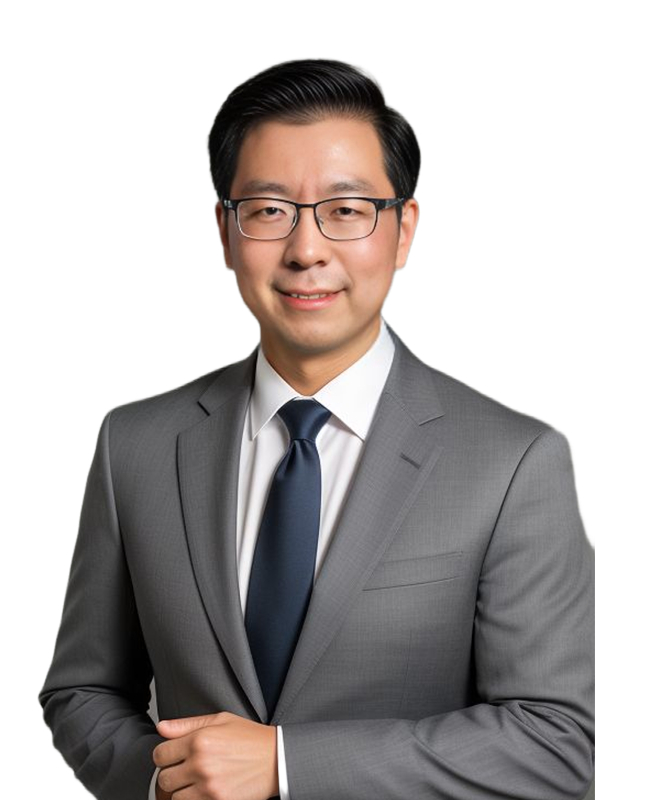
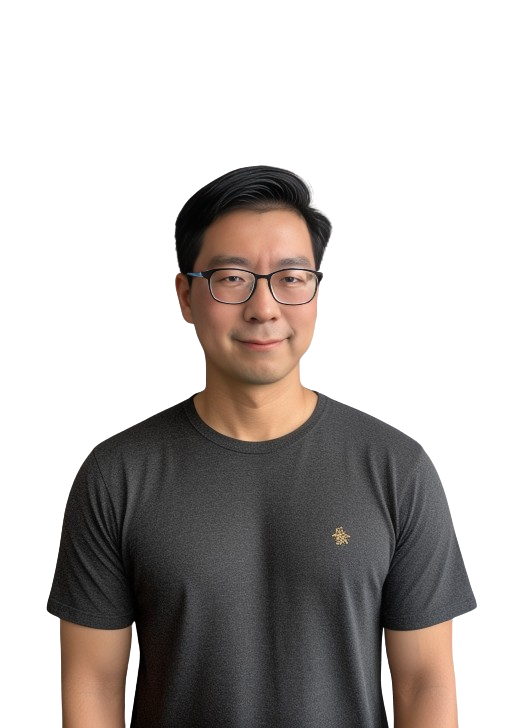
new photo

diff --git a/src/components/Hero.jsx b/src/components/Hero.jsx
@@ -18,6 +18,20 @@ const Hero = () => {
     >
       <div className="container lg:grid lg:grid-cols-2
       items-center lg:gap-10">
+        <div className="hidden lg:block">
+          <figure className="w-full max-w-[4480px] ml-auto
+          bg-gradient-to-t from-sky-400 via-25% via-sky-40 to-65% 
+          rounded-[60px] overflow-hidden">
+            <img 
+            src="/images/hero-banner.png"
+            width={656}
+            height={800} 
+            alt="Portrait" 
+            className="w-full" 
+            />
+          </figure>
+
+        </div>
         <div>
 
           <div className="flex items-center gap-3">
@@ -62,20 +76,7 @@ const Hero = () => {
 
 
         </div>
-        <div className="hidden lg:block">
-          <figure className="w-full max-w-[4480px] ml-auto
-          bg-gradient-to-t from-sky-400 via-25% via-sky-40 to-65% 
-          rounded-[60px] overflow-hidden">
-            <img 
-            src="/images/hero-banner.png"
-            width={656}
-            height={800} 
-            alt="Portrait" 
-            className="w-full" 
-            />
-          </figure>
-
-        </div>
+        
 
       </div>
 